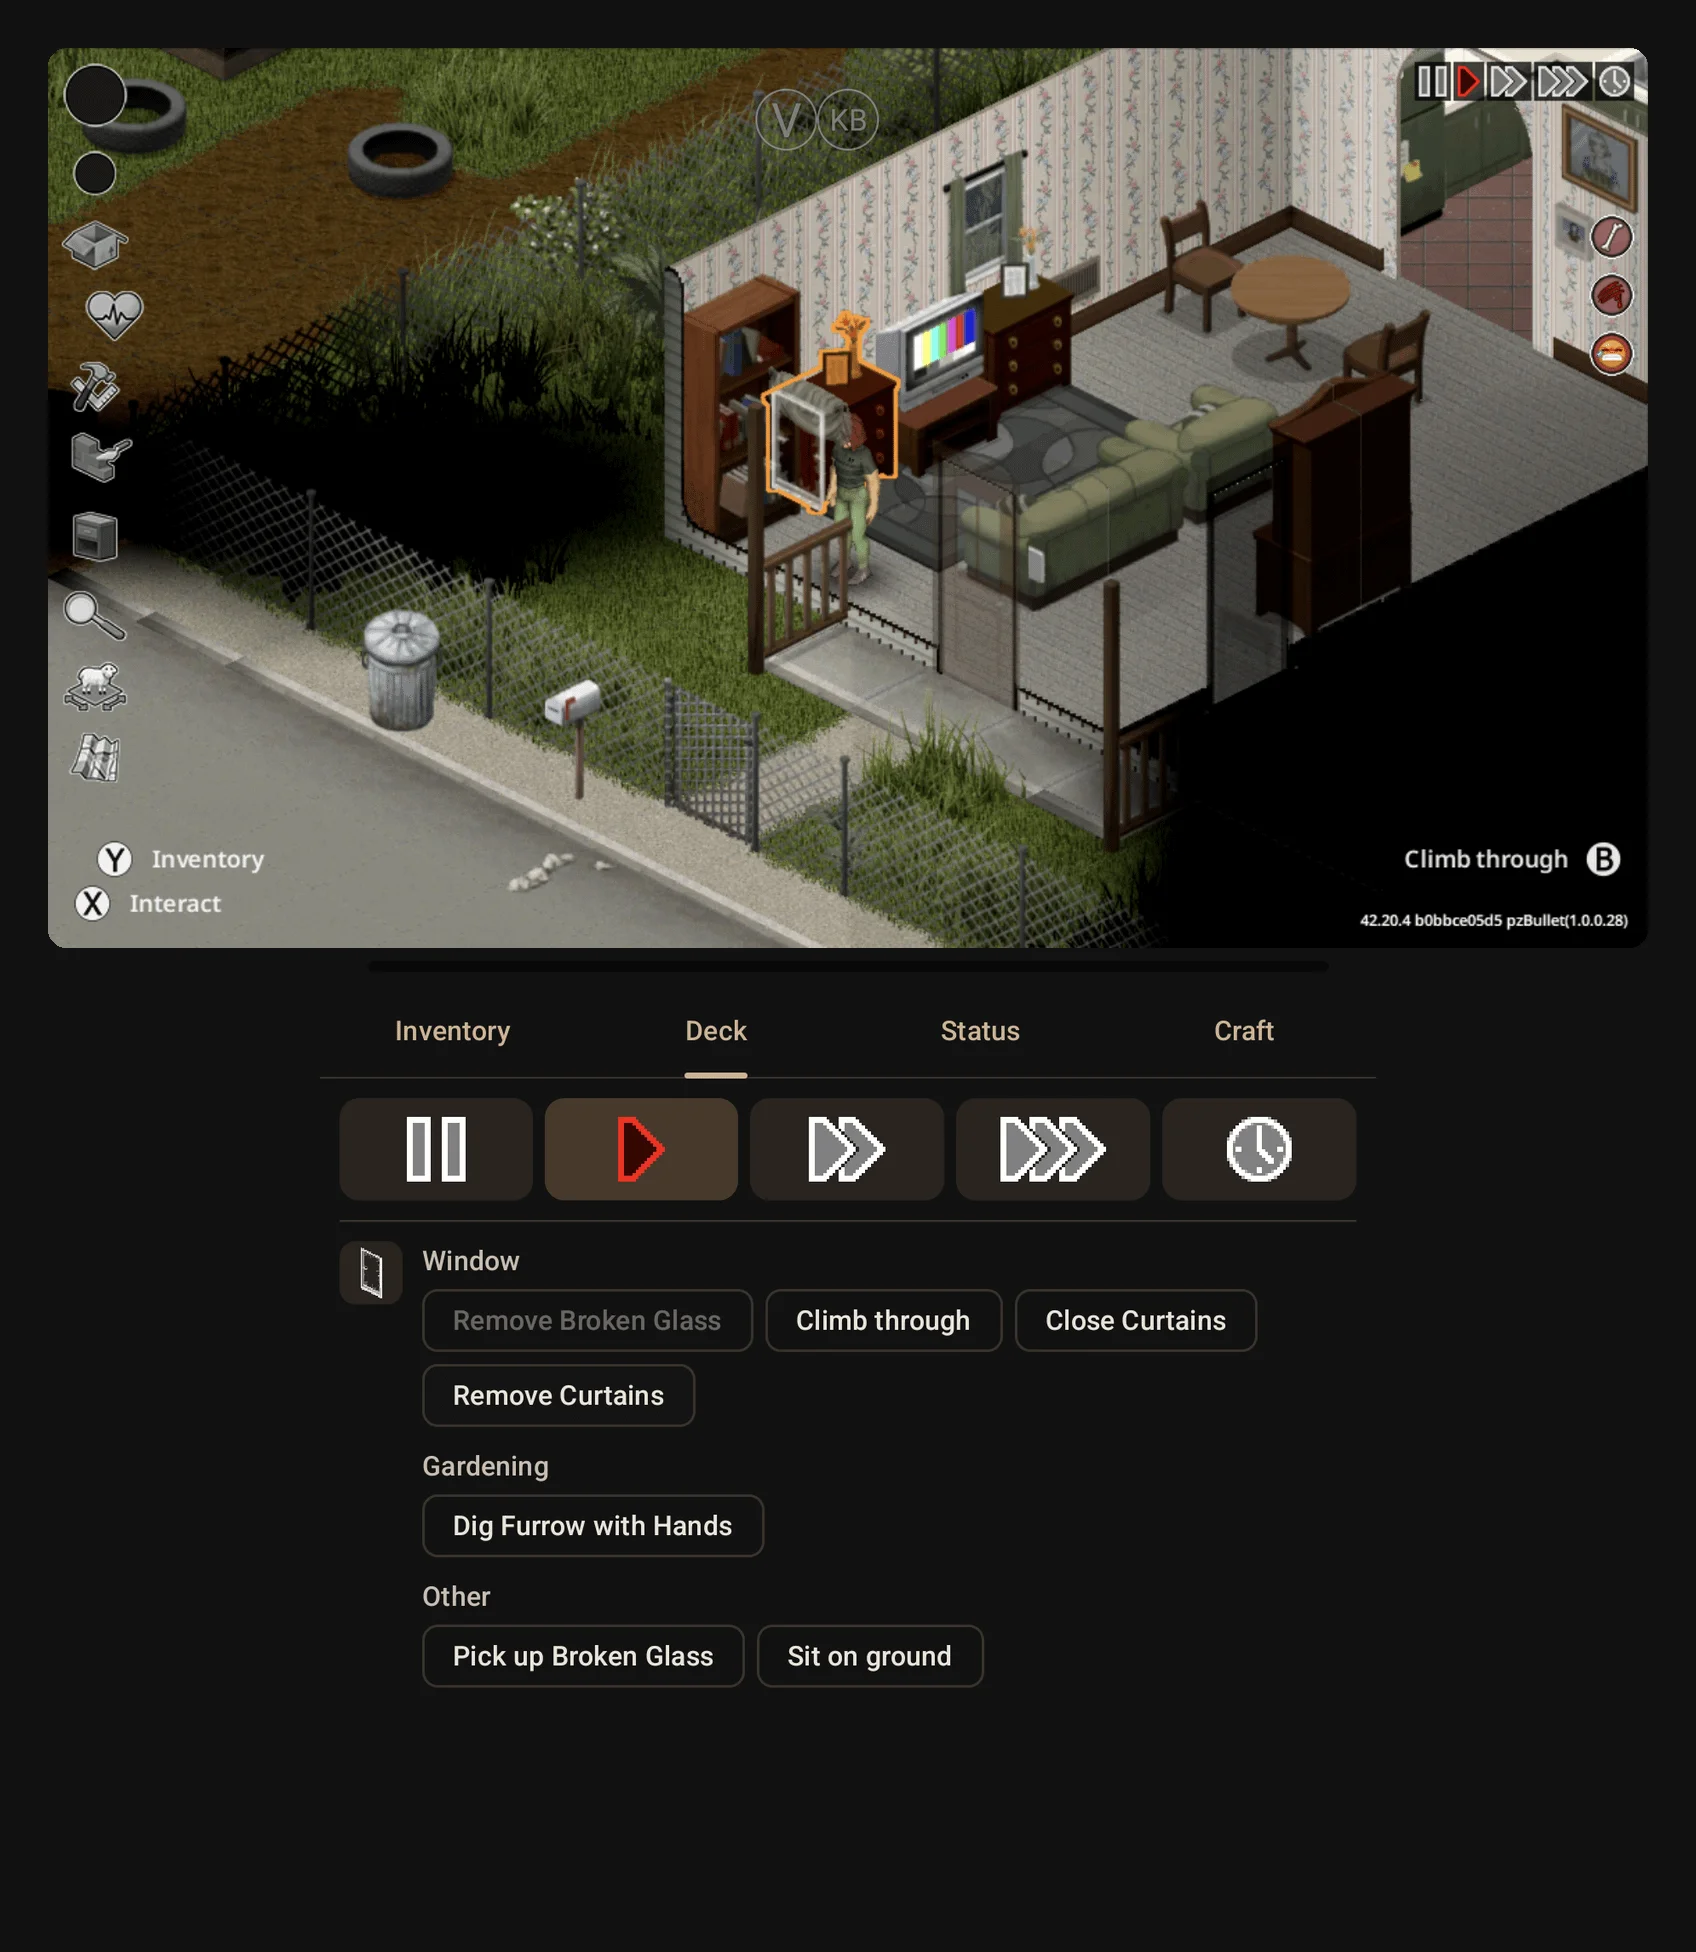
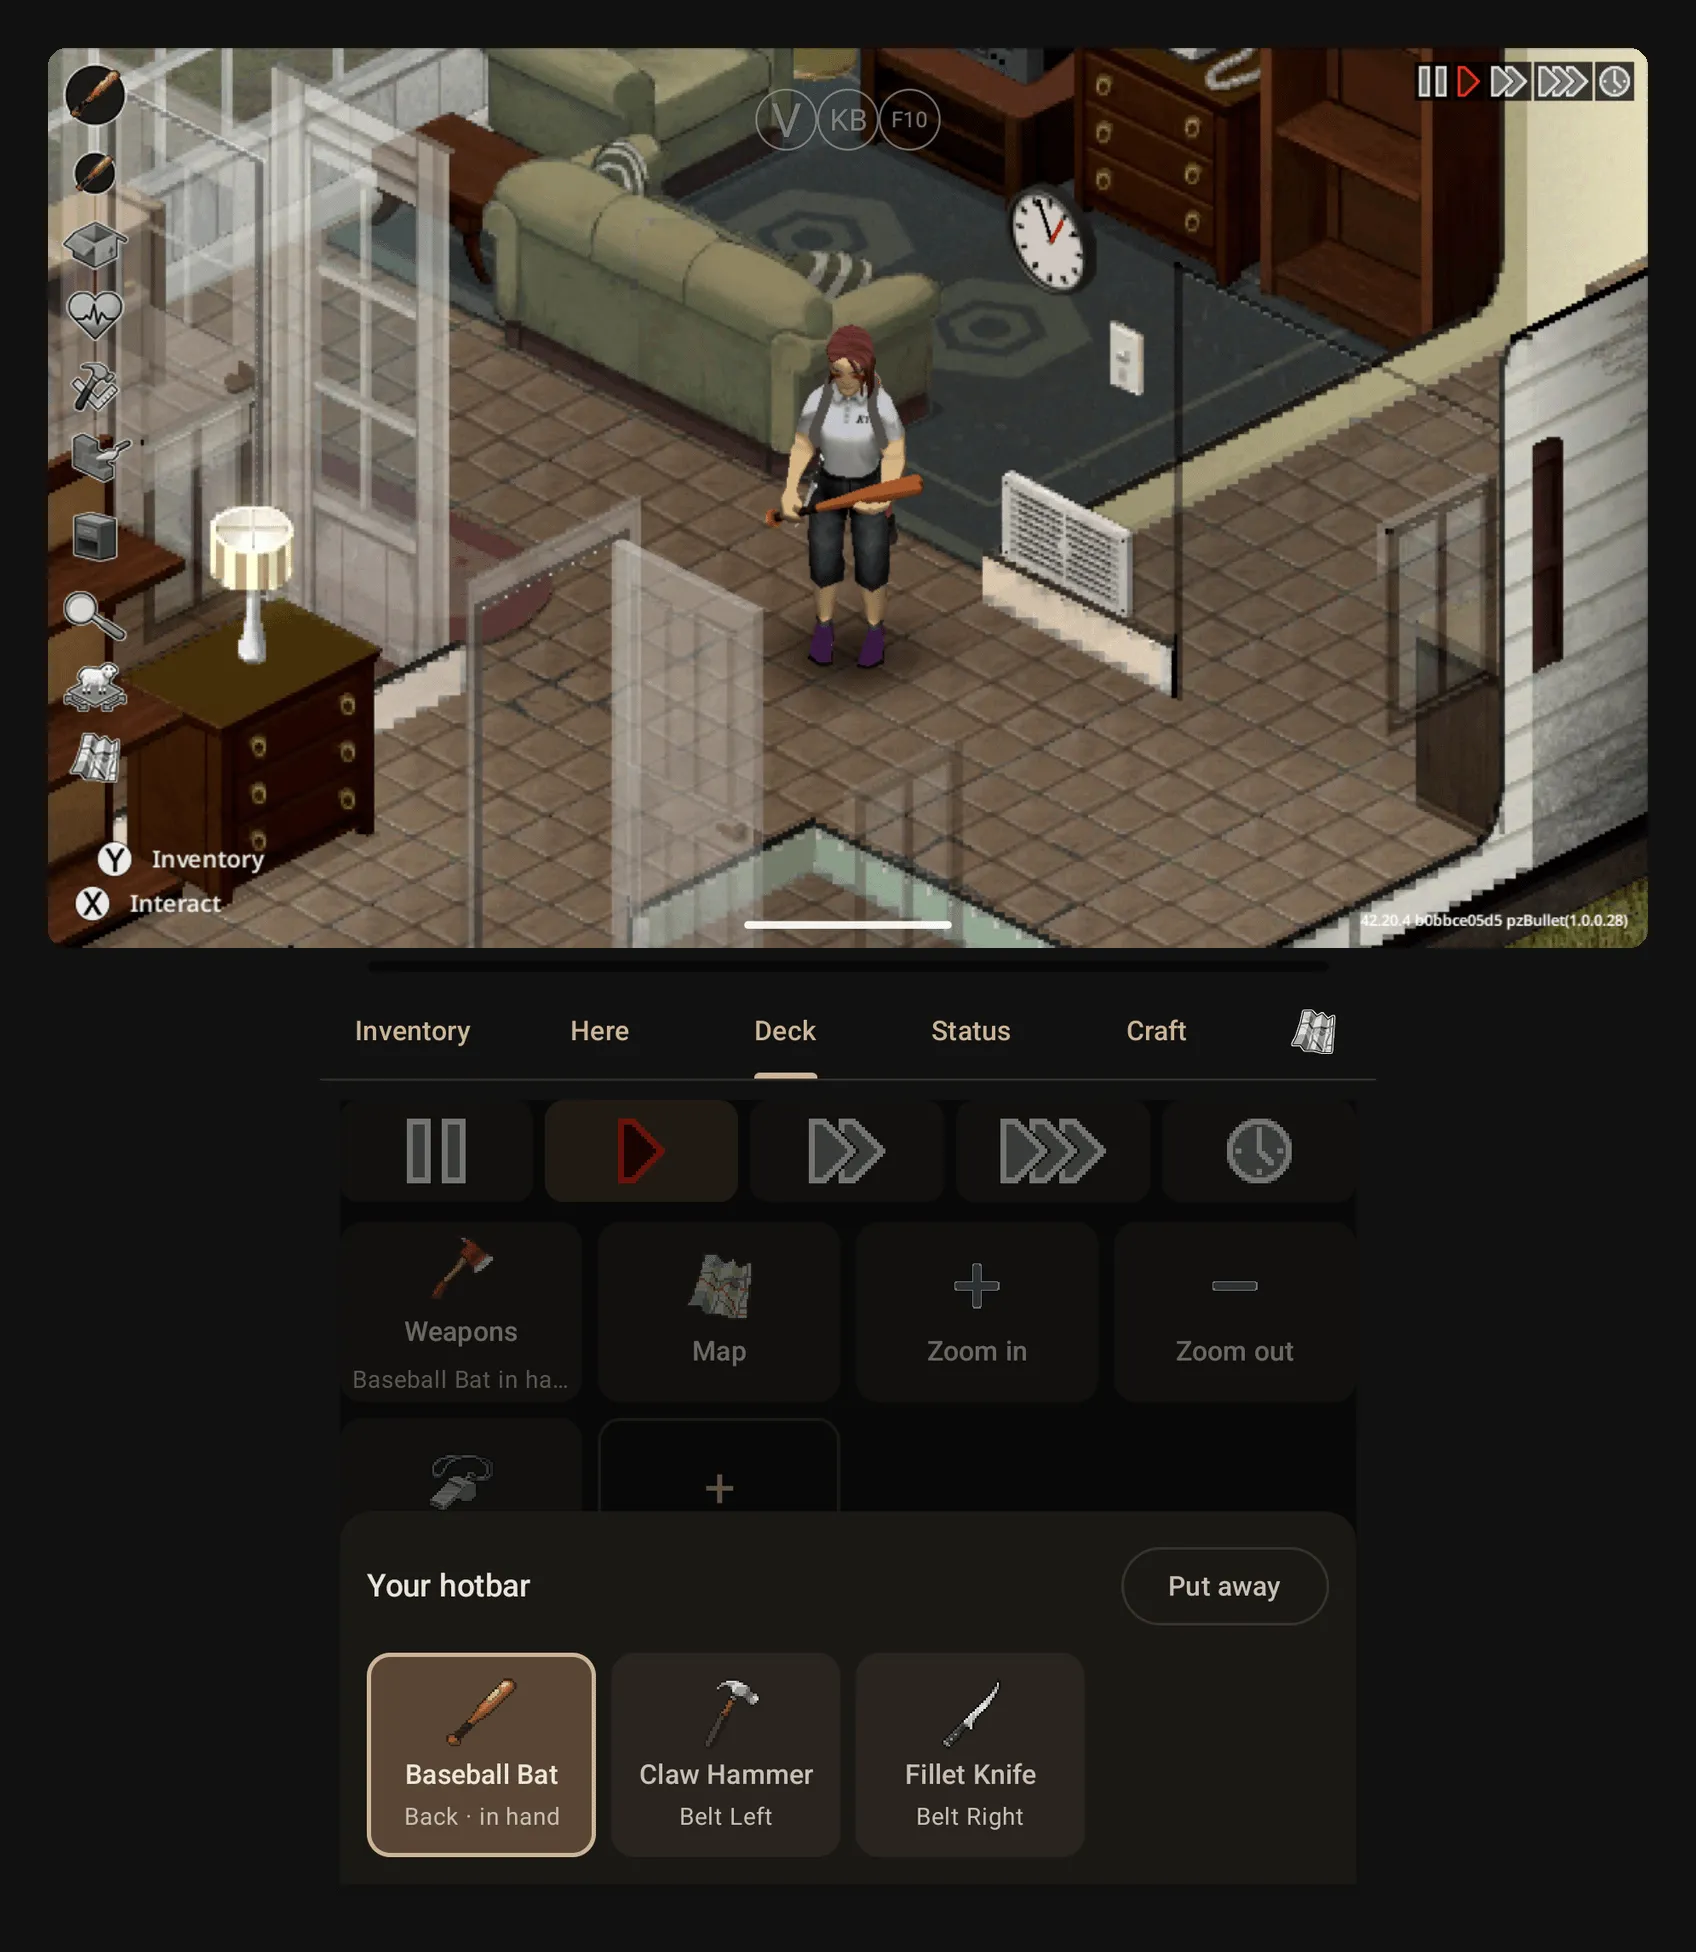
chore(reddit): automated project pages update (#14)

diff --git a/content/zomboidds/index.md b/content/zomboidds/index.md
@@ -1,9 +1,10 @@
 ---
 title: "ZomboidDS"
-description: "Dual-screen companion app for Project Zomboid (Build 42) via Zomdroid: the game on the top screen, inventory, crafting, status and vehicle controls on the Thor's bottom screen."
+description: "Dual-screen companion app for Project Zomboid (Build 42) via Zomdroid: the game on the top screen, inventory, crafting, status, map and vehicle controls on the Thor's bottom screen."
 date: "2026-09-26 09:47"
 slug: "zomboidds"
-category: "game"
+category: "companion"
+generated: "ai"
 media:
   - type: "image"
     url: "/content/zomboidds/preview.webp"
@@ -17,25 +18,31 @@ source: [reddit.com](https://www.reddit.com/r/AynThor/comments/1wptab9/zomboidds
 
 ## Description
 
-ZomboidDS is a Nintendo DS-style dual-screen setup for Project Zomboid on handhelds like the AYN Thor. The game itself runs on the top screen through [Zomdroid](https://github.com/udarmolota/zomdroid), while the **ZomboidDS Companion** app runs on the bottom screen and renders everything in the game's own art — icons are read from the player's own installation on the device, no game files are shipped.
+ZomboidDS is a Nintendo DS-style dual-screen setup for Project Zomboid on handhelds like the AYN Thor. The game runs on the top screen through Zomdroid, while the ZomboidDS Companion app runs on the bottom screen and renders everything in the game's own art — icons are read from the player's own installation on the device, no game files are shipped.
 
-The bottom screen has five panels:
+The bottom screen has these panels:
 
-- **Inventory** — your bags and every container around you; move items with a tap and use them through the game's own item menu (read, eat, apply, craft, ...).
-- **Deck** — the game's speed buttons and context actions for where you stand (open, sit, drink, ...).
-- **Status** — moodles, the body with its injuries, and the game's treatments.
-- **Craft** — recipes you can make with what's in reach, their requirements, and crafting.
-- **Vehicle** — speed, fuel and engine while driving.
+- **Map** — the game's minimap on the bottom screen. It follows you (or your car), only shows what you've explored, and can show your own map symbols and notes. It sits next to the Here tab or on its own tab, and only shows on saves that allow the minimap unless you tick "Map on every save" in the mod options.
+- **Inventory** — your bags and every container around you, with the game's icons; move items with a tap or by dragging, and use them through the game's own item menu (read, eat, apply, craft, ...). A new side-by-side layout, plus multi-select: hold an item for half a second or draw a box over several, then move them all at once.
+- **Here** — its own tab with what you can do where you stand, one card per object (fridge, sink, door, ...). In a car it turns into the vehicle view with the car's own menu as big buttons.
+- **Deck** — the game's speed buttons, the time and your alarm, plus commands you pick yourself (zoom, search mode, flashlight, map, sit, shout, drop bag, ...). Weapons shows your hotbar, so you can switch weapons with one tap.
+- **Status** — the game's moodles, your body with its injuries, and the game's treatments.
+- **Craft** — the recipes you can make with what's in reach, what each needs, and crafting them.
+- **Vehicle** — while you drive, speed, engine and fuel with the car's controls.
 
-Because everything is driven by the game's own data, most mods should stay compatible (untested by the author). The mod's bridge listens only on `127.0.0.1` (loopback), so nothing on the network can reach it; the app has no analytics and no accounts. On the Thor, the companion app launches on the bottom screen (display 4).
+An item's main uses (eat, drink, wear, read, bandage, reload, ...) are buttons now, taken from the game's own menu.
 
-ZomboidDS is an unofficial mod, not affiliated with or endorsed by The Indie Stone. It requires your own copy of **Project Zomboid (Build 42)** running in Zomdroid — no game data is included. It builds on [ZombieBuddy](https://github.com/zed-0xff/ZombieBuddy) (MIT) as the Java mod loader. Licensed under GPLv3.
+Because everything is driven by the game's own data, most mods should stay compatible. The mod's bridge listens only on 127.0.0.1 (loopback), so nothing on the network can reach it; the app has no analytics and no accounts. On the Thor, the companion app launches on the bottom screen (display 4).
+
+ZomboidDS is an unofficial mod, not affiliated with or endorsed by The Indie Stone. It requires your own copy of Project Zomboid (Build 42) running in Zomdroid — no game data is included. It builds on ZombieBuddy (MIT) as the Java mod loader. Licensed under GPLv3.
 
 ## Setup guide
 
-1. Install [Zomdroid](https://github.com/udarmolota/zomdroid) and set up your own copy of Project Zomboid (Build 42) in it.
-2. Download `ZomboidDS-<version>.apk` from the [latest release](https://github.com/Space001000/ZomboidDS/releases/latest) and install it.
-3. Follow the in-app setup checklist: it installs the mod for you (through Android's folder picker, no storage permission needed), downloads ZombieBuddy from its GitHub releases (a pinned version verified against built-in SHA-256 hashes), and checks the prerequisites. It also notifies you when a new version is available.
+1. Install Zomdroid and set up your own copy of Project Zomboid (Build 42) in it.
+2. Download `ZomboidDS-<version>.apk` from the latest release and install it.
+3. Follow the in-app setup checklist: it installs the mod for you (through Android's folder picker, no storage permission needed), downloads ZombieBuddy from its GitHub releases (a pinned version verified against built-in SHA-256 hashes), and checks the prerequisites. The app updates itself from the setup screen and shows what's new after an update.
 4. Launch the game in Zomdroid on the top screen and the companion app on the bottom screen.
+
+A detailed user guide is included in the repository.
 
 See the project page: [github.com](https://github.com/Space001000/ZomboidDS)
